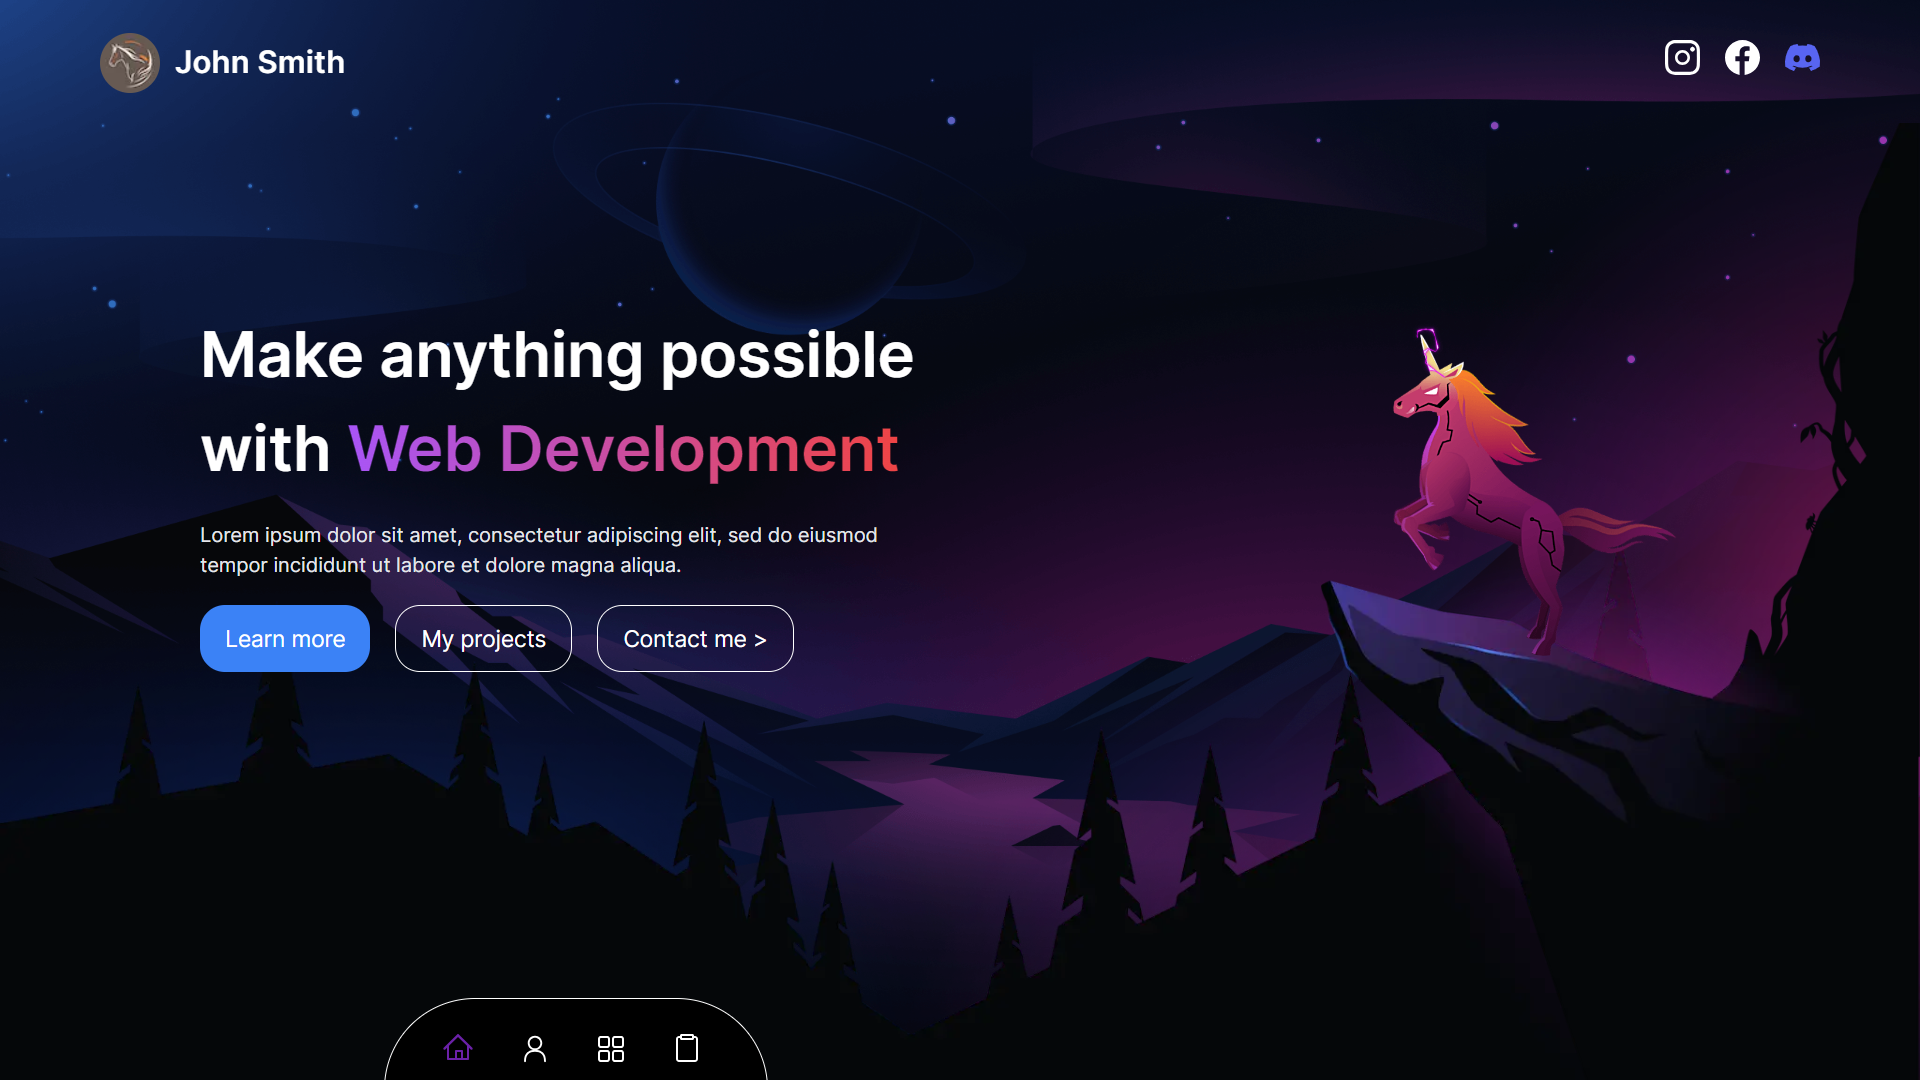
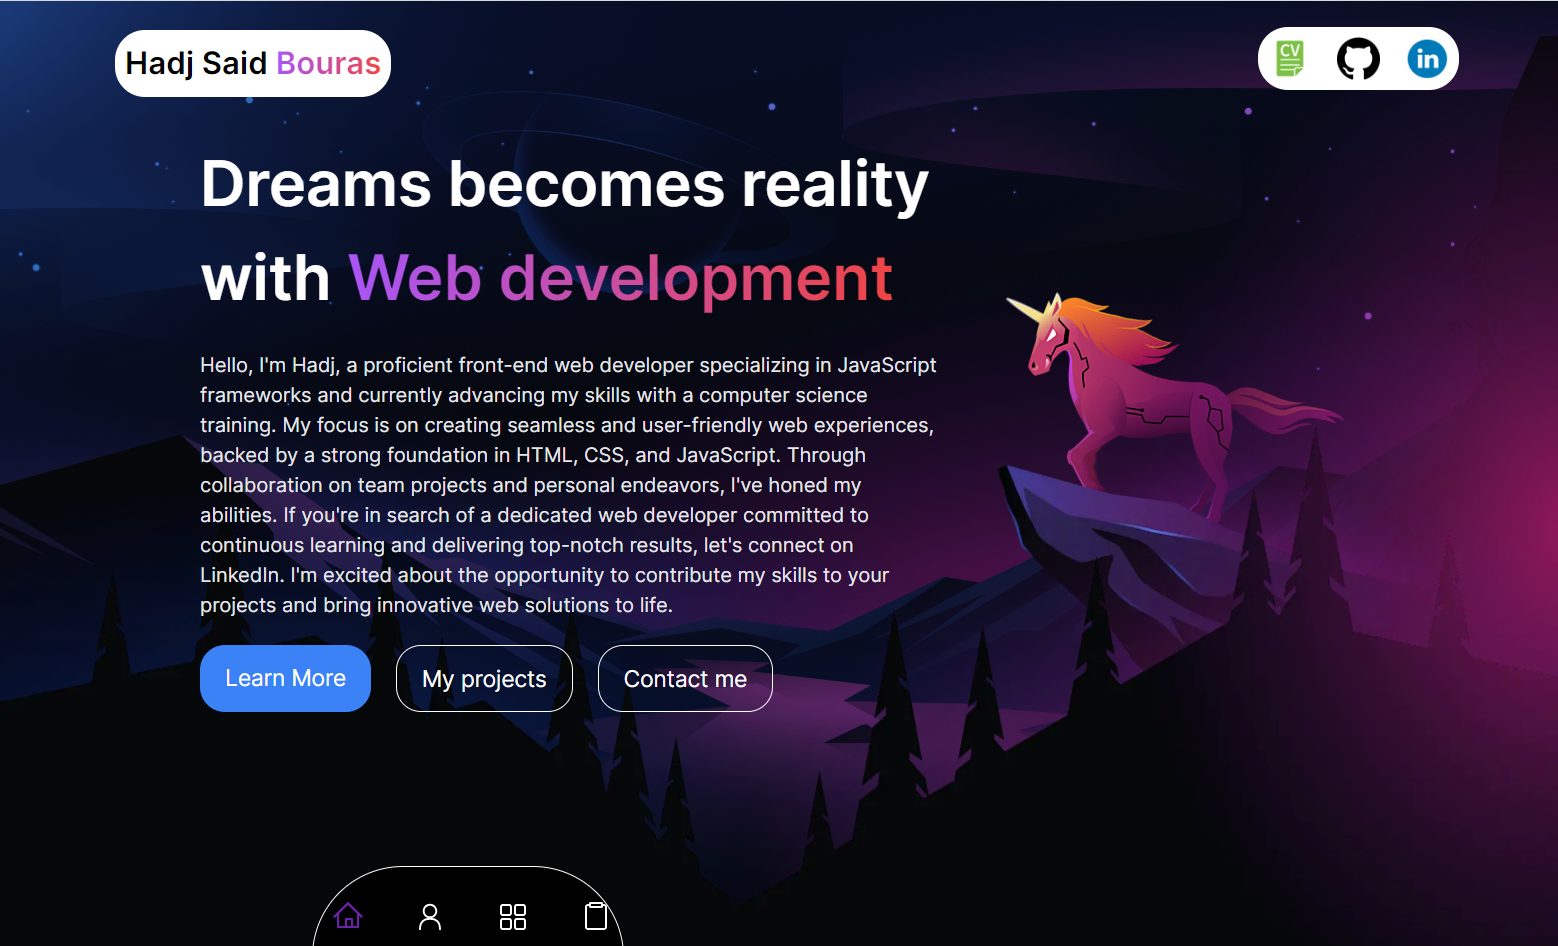
edit background images

diff --git a/constants/index.tsx b/constants/index.tsx
@@ -97,23 +97,23 @@ export const Socials = [
 export const Projects = [
   {
     title: "Modern Nextjs Website",
-    text: "Lorem ipsum dolor sit amet, consectetur adipiscing elit, sed do eiusmod tempor incididunt ut labore et dolore magna aliqua. Ut enim ad minim veniam.",
-    src: "/NextWebsite.png",
+    text: "A website for students to share usable products and they can even exchange or sell them (Group project)",
+    src: "/shareity.png",
   },
   {
     title: "Space Themed Website",
-    text: "Lorem ipsum dolor sit amet, consectetur adipiscing elit, sed do eiusmod tempor incididunt ut labore et dolore magna aliqua. Ut enim ad minim veniam.",
+    text: "An E-commerce website that fetches products from external api (Group project)",
     src: "/SpaceWebsite.png",
   },
   {
     title: "Modern Nextjs Portfolio",
-    text: "Lorem ipsum dolor sit amet, consectetur adipiscing elit, sed do eiusmod tempor incididunt ut labore et dolore magna aliqua. Ut enim ad minim veniam.",
+    text: "A portfolio website for presenting my skills and projects (code-along project)",
     src: "/WebPortfolio.png",
   },
   {
     title: "Matrix themed Website",
-    text: "Lorem ipsum dolor sit amet, consectetur adipiscing elit, sed do eiusmod tempor incididunt ut labore et dolore magna aliqua. Ut enim ad minim veniam.",
-    src: "/Matrix.png",
+    text: "A madlib game website for people to create their own stories (Group project)",
+    src: "/madlib.png",
   },
 ];
 

diff --git a/app/page.tsx b/app/page.tsx
@@ -4,7 +4,7 @@ import Link from 'next/link'
 export default function Home() {
   return (
     <main className='w-screen h-screen relative'>
-      <div className='flex items-center w-full h-full bg-cover bg-center' style={{backgroundImage: "url(/main-bg.webp)"}}>
+      <div className='flex items-center w-full h-full bg-cover bg-center' style={{backgroundImage: "url(/6.gif)", backgroundSize: "800px",backgroundColor: "black", backgroundRepeat: "no-repeat"}}>
         <div className='pl-20 md:pl-40 pb-56 md:pb-20 flex flex-col gap-5 z-[10] max-w-[750px]'>
           <h1 className='text-[50px] text-white font-semibold'>
             Dreams becomes reality with{" "}
@@ -42,7 +42,7 @@ export default function Home() {
               Contact me
             </Link>
           </div>
-          <Image
+          {/* <Image
               src='/horse.png'
               alt='horse'
               height={300}
@@ -72,7 +72,7 @@ export default function Home() {
               height={300}
               width={300}
               className='absolute top-10 left-0 z-[10]' 
-            />
+            /> */}
     </main>
   )
 }

diff --git a/app/contact-me/page.tsx b/app/contact-me/page.tsx
@@ -4,11 +4,11 @@ import React from "react";
 const Page = () => {
   return (
     <div
-      style={{ backgroundImage: "url(bg-3.jpg)" }}
+      style={{ backgroundImage: "url(6.gif)", backgroundSize: "800px",backgroundColor: "black", backgroundRepeat: "no-repeat"}}
       className="w-screen h-screen bg-cover bg-center flex items-center justify-center"
     >
       <div
-        style={{ backgroundImage: "url(atombg-comp.webp" }}
+        // style={{ backgroundImage: "url(/1.gif" }}
         className="h-[60%] w-[80%] relative bg-cover bg-center rounded-xl border border-white"
       >
         <div className="absolute left-20 bottom-16 w-[70%] md:w-[30%]">

diff --git a/app/my-projects/page.tsx b/app/my-projects/page.tsx
@@ -7,7 +7,7 @@ export default function Page() {
   return (
     <div 
     className='w-screen h-screen flex items-center justify-center bg-center bg-cover'
-    style={{backgroundImage: "url(/mountains.jpg)"}}
+    style={{ backgroundSize: "800px",backgroundColor: "black", backgroundRepeat: "no-repeat"}}
     >
       <div className='grid grid-cols-2 gap-5 max-w-[90%] max-h-[90%]'>
         {Projects.map((project, index) => (

diff --git a/app/my-skills/page.tsx b/app/my-skills/page.tsx
@@ -9,7 +9,7 @@ import {Autoplay} from 'swiper/modules'
 export default function Page() {
   return (
     <div
-    style={{backgroundImage: "url('/bg-2.jpg')"}}
+    style={{backgroundImage: "url('/6.gif')", backgroundSize: "800px",backgroundColor: "black", backgroundRepeat: "no-repeat"}}
     className='w-screen h-screen items-center justify-center bg-cover bg-center'
     >
       <div 

diff --git a/app/globals.css b/app/globals.css
@@ -20,3 +20,4 @@ body {
 .flip-card-back {
   transform: rotateY(180deg);
 }
+
